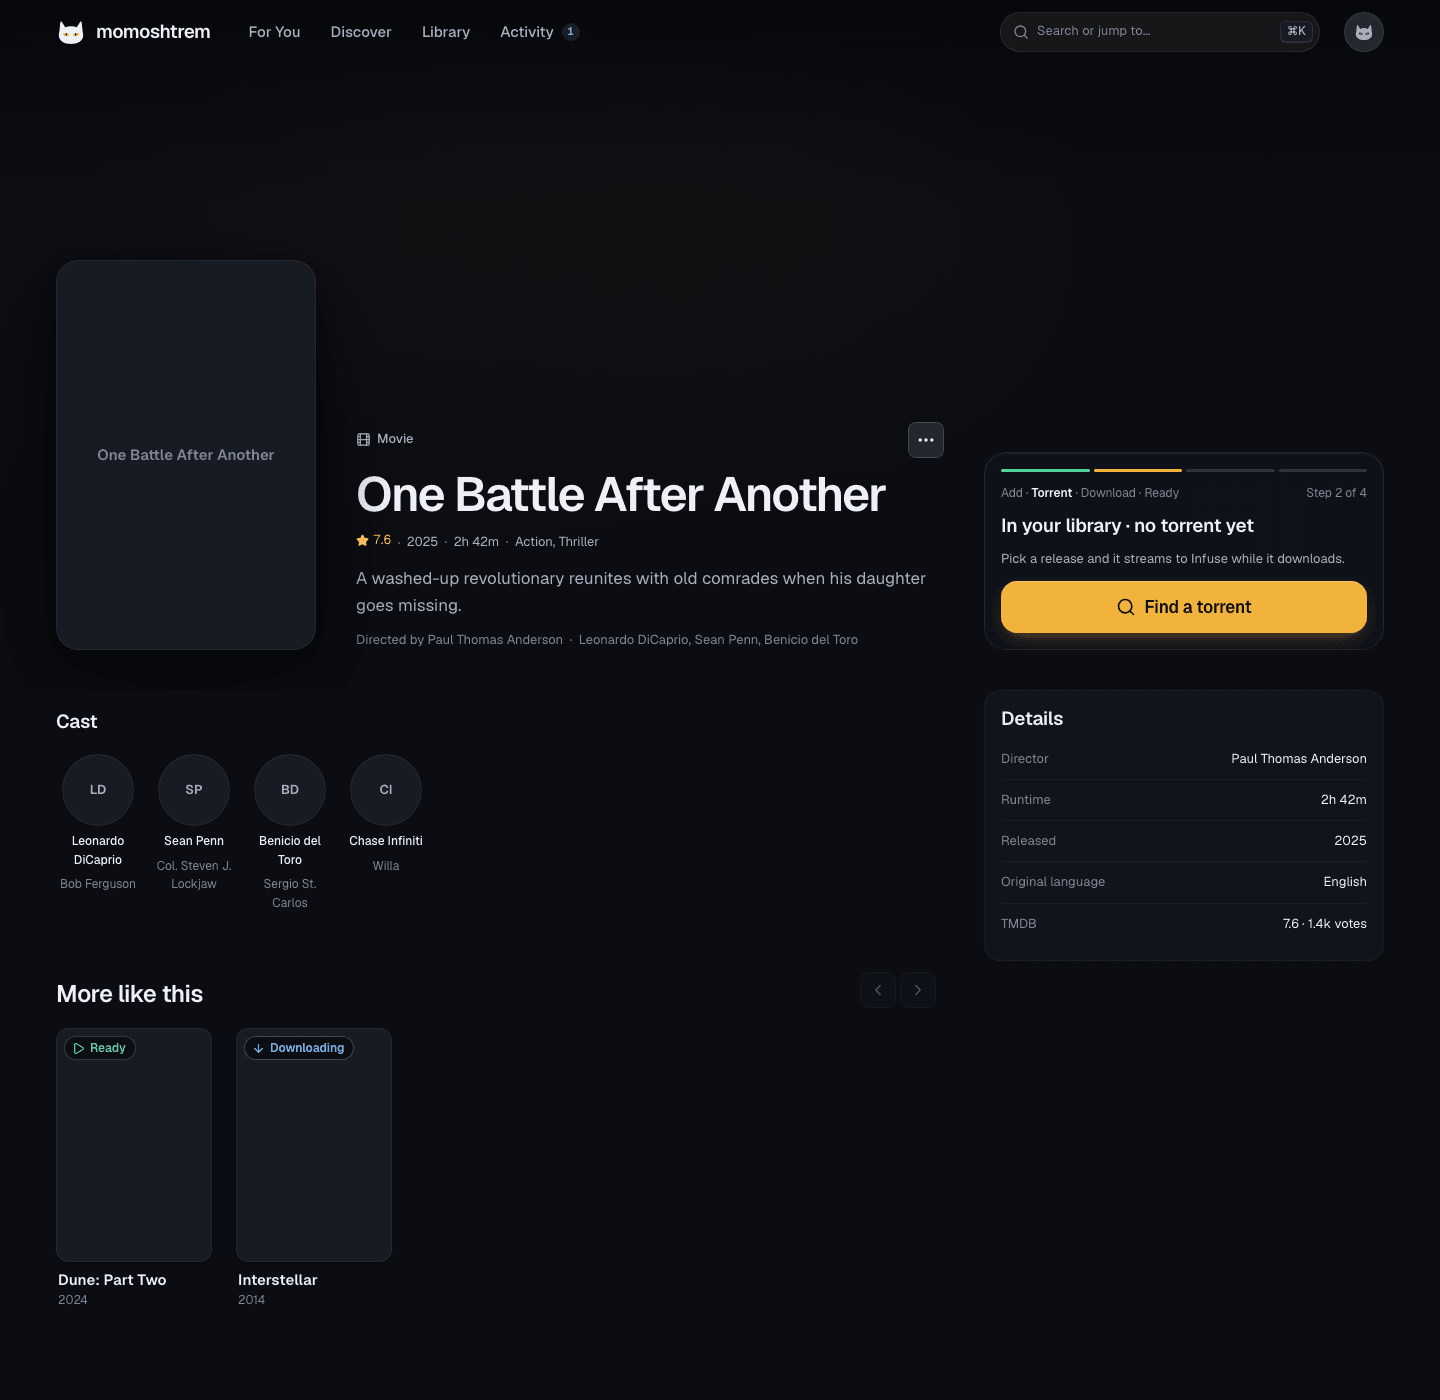
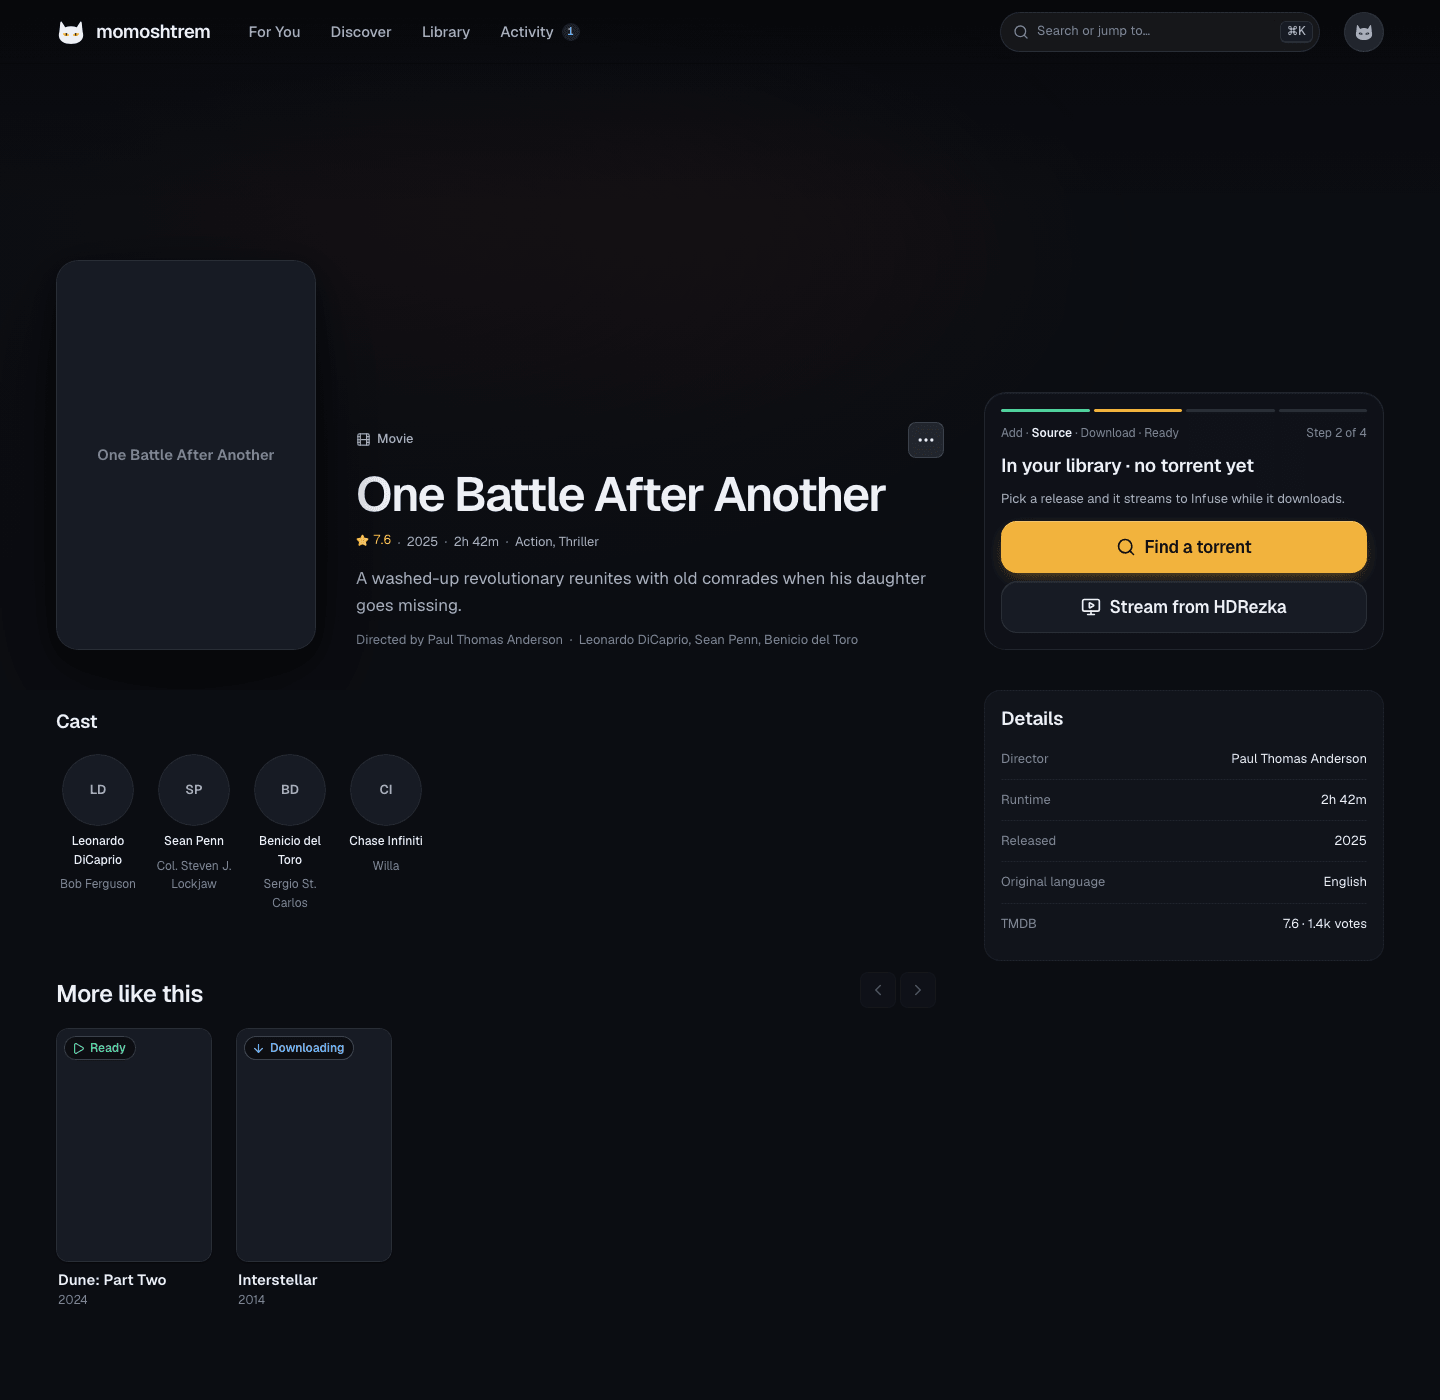
test(web): HDRezka e2e and screenshots (#67)
e2e/hdrezka.spec.ts at 390 and 1440 with axe and the 320 px check:
stream a movie from the panel (or the dock's icon) through match,
voice-over and quality to Ready with the stream; Change voice-over or
quality reopens at what plays now; the bot-check banner and Retry;
Premium-only; the Torrents tab and kept picks; replacing a torrent asks
first; Back closes the sheet; nothing shows with HDRezka off.

Screenshots: hdrezka/{match,steps,none,blocked} and movie/stream are new;
movie/* and show/* are retaken for the Source step.

Changed region(s): [[0.6875, 0.2764, 0.9688, 0.4607]]

diff --git a/web/e2e/hdrezka.spec.ts b/web/e2e/hdrezka.spec.ts
@@ -1,0 +1,166 @@
+import { expect, test, type Page } from '@playwright/test';
+import { signIn } from './helpers/auth';
+import { expectNoA11yViolations, expectNoHorizontalOverflow } from './helpers/a11y';
+
+/**
+ * HDRezka as a second source (#67), against the MSW mocks: One Battle After
+ * Another needs a file, Dune: Part Two plays from a torrent. Scenarios in
+ * src/mocks/scenario.ts (hdrezka-blocked, -premium, -off).
+ */
+
+/** axe and no sideways scrolling at this width and at 320 px. */
+async function expectAccessibleAndContained(page: Page) {
+  await page.waitForFunction(() =>
+    document.getAnimations().every((animation) => animation.playState !== 'running' || animation.effect?.getTiming().iterations === Infinity)
+  );
+  await expectNoA11yViolations(page);
+  await expectNoHorizontalOverflow(page);
+  const viewport = page.viewportSize();
+  await page.setViewportSize({ width: 320, height: 640 });
+  await expectNoHorizontalOverflow(page);
+  if (viewport) await page.setViewportSize(viewport);
+}
+
+const scenario = (page: Page, name: string) => page.addInitScript((value) => window.localStorage.setItem('msw:scenario', value), name);
+const sheet = (page: Page) => page.getByRole('dialog', { name: /^Find a source · / });
+const BEST = 'Битва за битвой (2025)';
+
+/** The panel's button on desktop, the dock's icon on phone: both "Stream from HDRezka". */
+async function openFromPanel(page: Page) {
+  await page.getByRole('button', { name: 'Stream from HDRezka' }).click();
+  await expect(page).toHaveURL(/[?&]sheet=hdrezka&movie=1054867/);
+  await expect(sheet(page)).toBeVisible();
+}
+
+test.describe('HDRezka', () => {
+  test('stream a movie: best match, voice-over and quality, then it’s ready with the stream', async ({ page }) => {
+    await signIn(page, '/movie/1054867');
+    await expect(page.getByRole('region', { name: 'In your library · no torrent yet' })).toContainText('Add · Source · Download · Ready');
+    await openFromPanel(page);
+    const dialog = sheet(page);
+    await expect(dialog).toHaveAccessibleName('Find a source · One Battle After Another 2025 · 2h 42m');
+    await expect(dialog.getByRole('tab', { name: 'HDRezka' })).toHaveAttribute('aria-selected', 'true');
+    await expect(dialog.getByRole('searchbox', { name: 'Search HDRezka, or paste a link' })).toHaveValue('One Battle After Another');
+
+    const best = dialog.getByRole('article', { name: BEST });
+    await expect(best).toContainText('Best match');
+    await expect(best).toContainText('Exact title');
+    await expect(dialog.getByRole('article', { name: 'Битва полов (2017)' })).toContainText('Weak match');
+    await expectAccessibleAndContained(page);
+
+    await best.getByRole('button', { name: `Use ${BEST}` }).click();
+    await expect(dialog.getByRole('radio', { name: 'HDrezka Studio' })).toBeChecked();
+    await expect(dialog.getByRole('radio', { name: 'Дубляж, Premium' })).toBeDisabled();
+    await dialog.getByRole('radio', { name: 'Оригинал (+субтитры)' }).check();
+    await expect(dialog.getByText('Subtitles: English, Русский')).toBeVisible();
+    await expect(dialog.getByRole('radio', { name: '1080p, 4.3 GB' })).toBeChecked();
+    await expect(dialog.getByRole('radio', { name: '1080p Ultra, Premium' })).toBeDisabled();
+    await expectAccessibleAndContained(page);
+
+    await dialog.getByRole('button', { name: 'Use HDRezka' }).click();
+    await expect(page.getByRole('status').filter({ hasText: 'Streaming from HDRezka' })).toBeVisible();
+    await expect(dialog).toBeHidden();
+    await expect(page).toHaveURL(/\/movie\/1054867$/);
+    await expect(page.getByRole('region', { name: 'Ready in Infuse' })).toContainText('HDRezka · Оригинал (+субтитры) · 1080p · 4.3 GB');
+    const current = page.getByRole('region', { name: 'Current stream' });
+    await expect(current).toContainText('Битва за битвой');
+    await expect(current.getByRole('link', { name: 'Open on HDRezka' })).toHaveAttribute('href', 'https://rezka.ag/films/action/78655-bitva-za-bitvoy-2025.html');
+    await expectAccessibleAndContained(page);
+
+    // Change voice-over or quality reopens it on the title, at what plays now
+    await current.getByRole('button', { name: 'Change voice-over or quality' }).click();
+    await expect(sheet(page).getByRole('radio', { name: 'Оригинал (+субтитры)' })).toBeChecked();
+    await expect(sheet(page).getByText('This is what Infuse plays now')).toBeVisible();
+    await expect(sheet(page).getByRole('button', { name: 'Use HDRezka' })).toBeDisabled();
+  });
+
+  test('HDRezka’s bot check: an error with Retry and the backend’s message', async ({ page }) => {
+    await scenario(page, 'hdrezka-blocked');
+    await signIn(page, '/movie/1054867');
+    await openFromPanel(page);
+    const alert = sheet(page).getByRole('alert');
+    await expect(alert).toContainText('HDRezka is showing its bot check');
+    await expect(alert).toContainText('HDRezka answered with its anti-bot page instead of the title.');
+    await expectAccessibleAndContained(page);
+
+    await page.evaluate(() => window.localStorage.removeItem('msw:scenario'));
+    await alert.getByRole('button', { name: 'Retry' }).click();
+    await expect(sheet(page).getByRole('article', { name: BEST })).toBeVisible();
+  });
+
+  test('every voice-over needs Premium: explained, and nothing to use', async ({ page }) => {
+    await scenario(page, 'hdrezka-premium');
+    await signIn(page, '/movie/1054867');
+    await openFromPanel(page);
+    await sheet(page).getByRole('button', { name: `Use ${BEST}` }).click();
+    await expect(sheet(page).getByText('Every voice-over here needs HDRezka Premium')).toBeVisible();
+    for (const radio of await sheet(page).getByRole('radio').all()) await expect(radio).toBeDisabled();
+    await expect(sheet(page).getByRole('button', { name: 'Use HDRezka' })).toBeDisabled();
+    await expectAccessibleAndContained(page);
+  });
+
+  test('the Torrents tab moves to torrent search, and closing keeps the picks', async ({ page }) => {
+    await signIn(page, '/movie/1054867');
+    await openFromPanel(page);
+    await sheet(page).getByRole('button', { name: `Use ${BEST}` }).click();
+    await sheet(page).getByRole('radio', { name: 'Jaskier, Director’s cut' }).check();
+    await sheet(page).getByRole('button', { name: 'Close (your choices are kept)' }).click();
+    await expect(sheet(page)).toBeHidden();
+    await expect(page).toHaveURL(/\/movie\/1054867$/);
+
+    await openFromPanel(page);
+    await expect(sheet(page).getByText('Picked up where you left off')).toBeVisible();
+    await expect(sheet(page).getByRole('radio', { name: 'Jaskier, Director’s cut' })).toBeChecked();
+
+    await sheet(page).getByRole('tab', { name: 'Torrents' }).click();
+    await expect(sheet(page)).toBeHidden();
+    const search = page.getByRole('dialog', { name: 'Search Torrents: One Battle After Another (2025)' });
+    await expect(search).toBeVisible();
+    await expect(search.getByRole('searchbox', { name: 'Search torrents' })).toHaveValue('One Battle After Another 2025');
+  });
+
+  test('a stream replaces a torrent after asking, from Replace in the current torrent', async ({ page }, testInfo) => {
+    await signIn(page, '/movie/693134');
+    const torrent = page.getByRole('region', { name: 'Current torrent' });
+    await torrent.getByRole('button', { name: 'Replace' }).click();
+    // A menu on desktop, a sheet on phone
+    if (testInfo.project.name === 'mobile') await page.getByRole('dialog', { name: 'Replace with' }).getByRole('button', { name: 'Stream from HDRezka' }).click();
+    else await page.getByRole('menuitem', { name: 'Stream from HDRezka' }).click();
+    await expect(page).toHaveURL(/[?&]sheet=hdrezka&movie=693134/);
+
+    const dialog = sheet(page);
+    await dialog.getByRole('button', { name: 'Use Дюна: Часть вторая (2024)' }).click();
+    await expect(dialog.getByRole('radio', { name: '1080p, 4.5 GB' })).toBeChecked();
+    await dialog.getByRole('button', { name: 'Use HDRezka' }).click();
+    const confirm = page.getByRole('alertdialog', { name: 'Stream Dune: Part Two from HDRezka?' });
+    await expect(confirm).toContainText('It may show up as a new file (it ends in .mp4), so Infuse may forget where you stopped.');
+    await expectNoA11yViolations(page);
+    await confirm.getByRole('button', { name: 'Use HDRezka' }).click();
+
+    await expect(page.getByRole('status').filter({ hasText: 'Streaming from HDRezka' })).toBeVisible();
+    await expect(page.getByRole('region', { name: 'Ready in Infuse' })).toContainText('HDRezka · Дубляж · 1080p · 4.5 GB');
+    await expect(page.getByRole('region', { name: 'Ready in Infuse' }).getByLabel('WebDAV path')).toHaveText('/Movies/Dune- Part Two (2024)/Dune- Part Two (2024).mp4');
+    await expect(page.getByRole('heading', { name: 'Current torrent' })).toBeHidden();
+    await expect(page.getByRole('heading', { name: 'Current stream' })).toBeVisible();
+  });
+
+  test('Back closes the sheet; the ⋯ menu opens it too', async ({ page }) => {
+    await signIn(page, '/movie/693134');
+    await page.getByRole('button', { name: 'More actions for Dune: Part Two' }).click();
+    await page.getByText('Stream from HDRezka…').click();
+    await expect(sheet(page)).toBeVisible();
+    await page.goBack();
+    await expect(sheet(page)).toBeHidden();
+    await expect(page).toHaveURL(/\/movie\/693134$/);
+  });
+
+  test('with HDRezka off, nothing offers it', async ({ page }) => {
+    await scenario(page, 'hdrezka-off');
+    await signIn(page, '/movie/1054867');
+    await expect(page.getByRole('button', { name: 'Find a torrent' })).toBeVisible();
+    await expect(page.getByRole('button', { name: 'Stream from HDRezka' })).toHaveCount(0);
+    await page.getByRole('button', { name: 'More actions for One Battle After Another' }).click();
+    await expect(page.getByText('Refresh from TMDB')).toBeVisible();
+    await expect(page.getByText('Stream from HDRezka…')).toHaveCount(0);
+  });
+});

diff --git a/web/e2e/screenshots.spec.ts b/web/e2e/screenshots.spec.ts
@@ -153,6 +153,63 @@ test.describe('movie page', () => {
   });
 });
 
+test.describe('HDRezka sheet', () => {
+  const BEST = 'Use Битва за битвой (2025)';
+  const open = async (page: Page) => {
+    await signIn(page, '/movie/1054867?sheet=hdrezka&movie=1054867');
+    await page.getByRole('dialog', { name: /^Find a source/ }).waitFor();
+  };
+  const settle = async (page: Page) => {
+    await page.evaluate(() => (document.activeElement as HTMLElement | null)?.blur());
+    await page.waitForTimeout(600);
+  };
+
+  test('match', async ({ page }, testInfo) => {
+    await open(page);
+    await page.getByRole('button', { name: BEST }).waitFor();
+    await settle(page);
+    await shoot(page, testInfo, 'hdrezka/match');
+  });
+
+  test('voice-over and quality', async ({ page }, testInfo) => {
+    await open(page);
+    await page.getByRole('button', { name: BEST }).click();
+    await page.getByRole('radio', { name: 'Оригинал (+субтитры)' }).check();
+    await page.getByText('Subtitles: English, Русский').waitFor();
+    await settle(page);
+    await shoot(page, testInfo, 'hdrezka/steps');
+  });
+
+  test('none', async ({ page }, testInfo) => {
+    await open(page);
+    await page.getByRole('button', { name: BEST }).waitFor();
+    await page.getByRole('searchbox', { name: 'Search HDRezka, or paste a link' }).fill('zzz Battle 2025');
+    await page.keyboard.press('Enter');
+    await page.getByText('No match for “zzz Battle 2025”').waitFor();
+    await settle(page);
+    await shoot(page, testInfo, 'hdrezka/none');
+  });
+
+  test('blocked', async ({ page }, testInfo) => {
+    await page.addInitScript(() => window.localStorage.setItem('msw:scenario', 'hdrezka-blocked'));
+    await open(page);
+    await page.getByText('HDRezka is showing its bot check').waitFor();
+    await settle(page);
+    await shoot(page, testInfo, 'hdrezka/blocked');
+  });
+
+  test('ready with the stream', async ({ page }, testInfo) => {
+    await open(page);
+    await page.getByRole('button', { name: BEST }).click();
+    await page.getByRole('radio', { name: 'Оригинал (+субтитры)' }).check();
+    await page.getByRole('button', { name: 'Use HDRezka' }).click();
+    await page.getByRole('heading', { name: 'Current stream' }).waitFor();
+    await page.getByRole('status').filter({ hasText: 'Streaming from HDRezka' }).waitFor();
+    await page.waitForTimeout(600);
+    await shoot(page, testInfo, 'movie/stream', { fullPage: true });
+  });
+});
+
 test.describe('show page', () => {
   for (const [state, path, ready] of [
     ['frieren', '/tv/209867', 'Episodes 29–38 have no torrent'],
